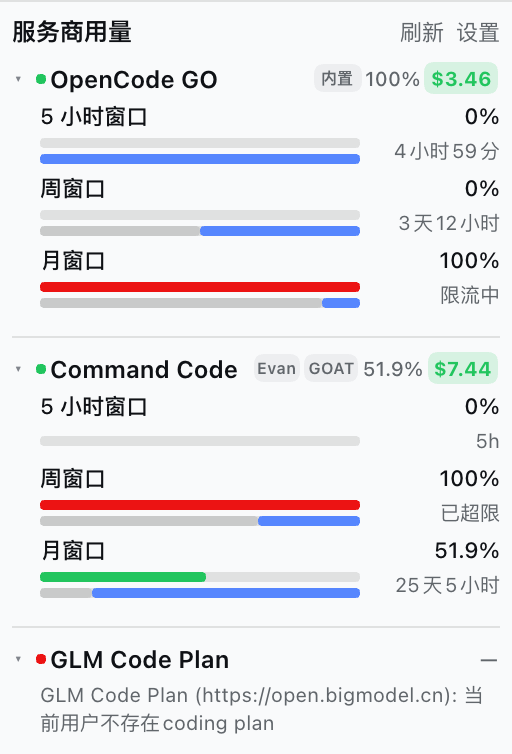
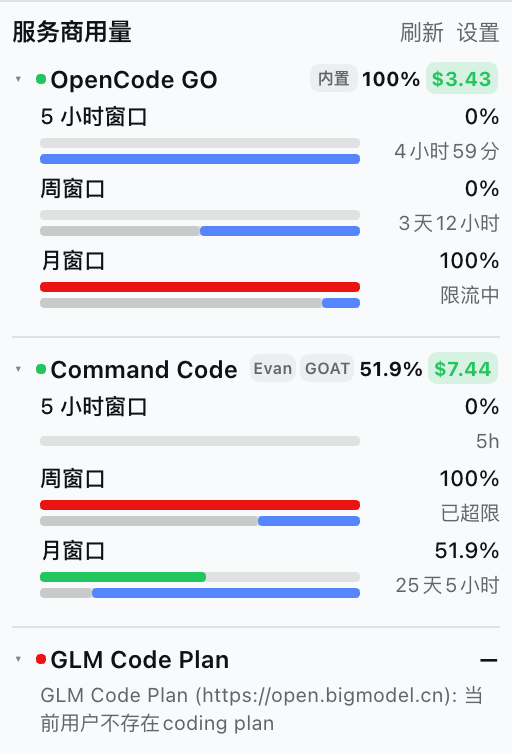
style: bold the provider percentage

diff --git a/lib/client.js b/lib/client.js
@@ -49,7 +49,7 @@ window.__ModuleLoader__.load({
 				".dpu-provider-head:hover{background:var(--dsw-alias-interactive-bg-hover)}",
 				".dpu-chevron{flex:none;width:9px;font-size:9px;line-height:16px;color:var(--dsw-alias-label-tertiary)}",
 				".dpu-provider-name{flex:1;min-width:0;overflow:hidden;text-overflow:ellipsis;white-space:nowrap;font-size:12px;font-weight:600}",
-				".dpu-provider-pct{flex:none;font-size:10px;font-weight:500;line-height:16px;color:var(--dsw-alias-label-secondary)}",
+				".dpu-provider-pct{flex:none;font-size:10px;font-weight:700;line-height:16px;color:var(--dsw-alias-label-primary)}",
 				".dpu-provider-balance{flex:none;max-width:96px;overflow:hidden;text-overflow:ellipsis;white-space:nowrap;padding:0 3px;border-radius:6px;font-size:10px;line-height:16px;font-weight:700;color:var(--dsw-alias-state-success-primary);background:color-mix(in srgb, var(--dsw-alias-state-success-primary) 16%, transparent)}",
 				".dpu-provider-balance.dpu-muted{color:var(--dsw-alias-label-tertiary)}",
 				".dpu-provider-balance.dpu-down{color:var(--dsw-alias-state-error-primary);background:color-mix(in srgb, var(--dsw-alias-state-error-primary) 18%, transparent);animation:dpu-balance-pop 1.4s ease}",
